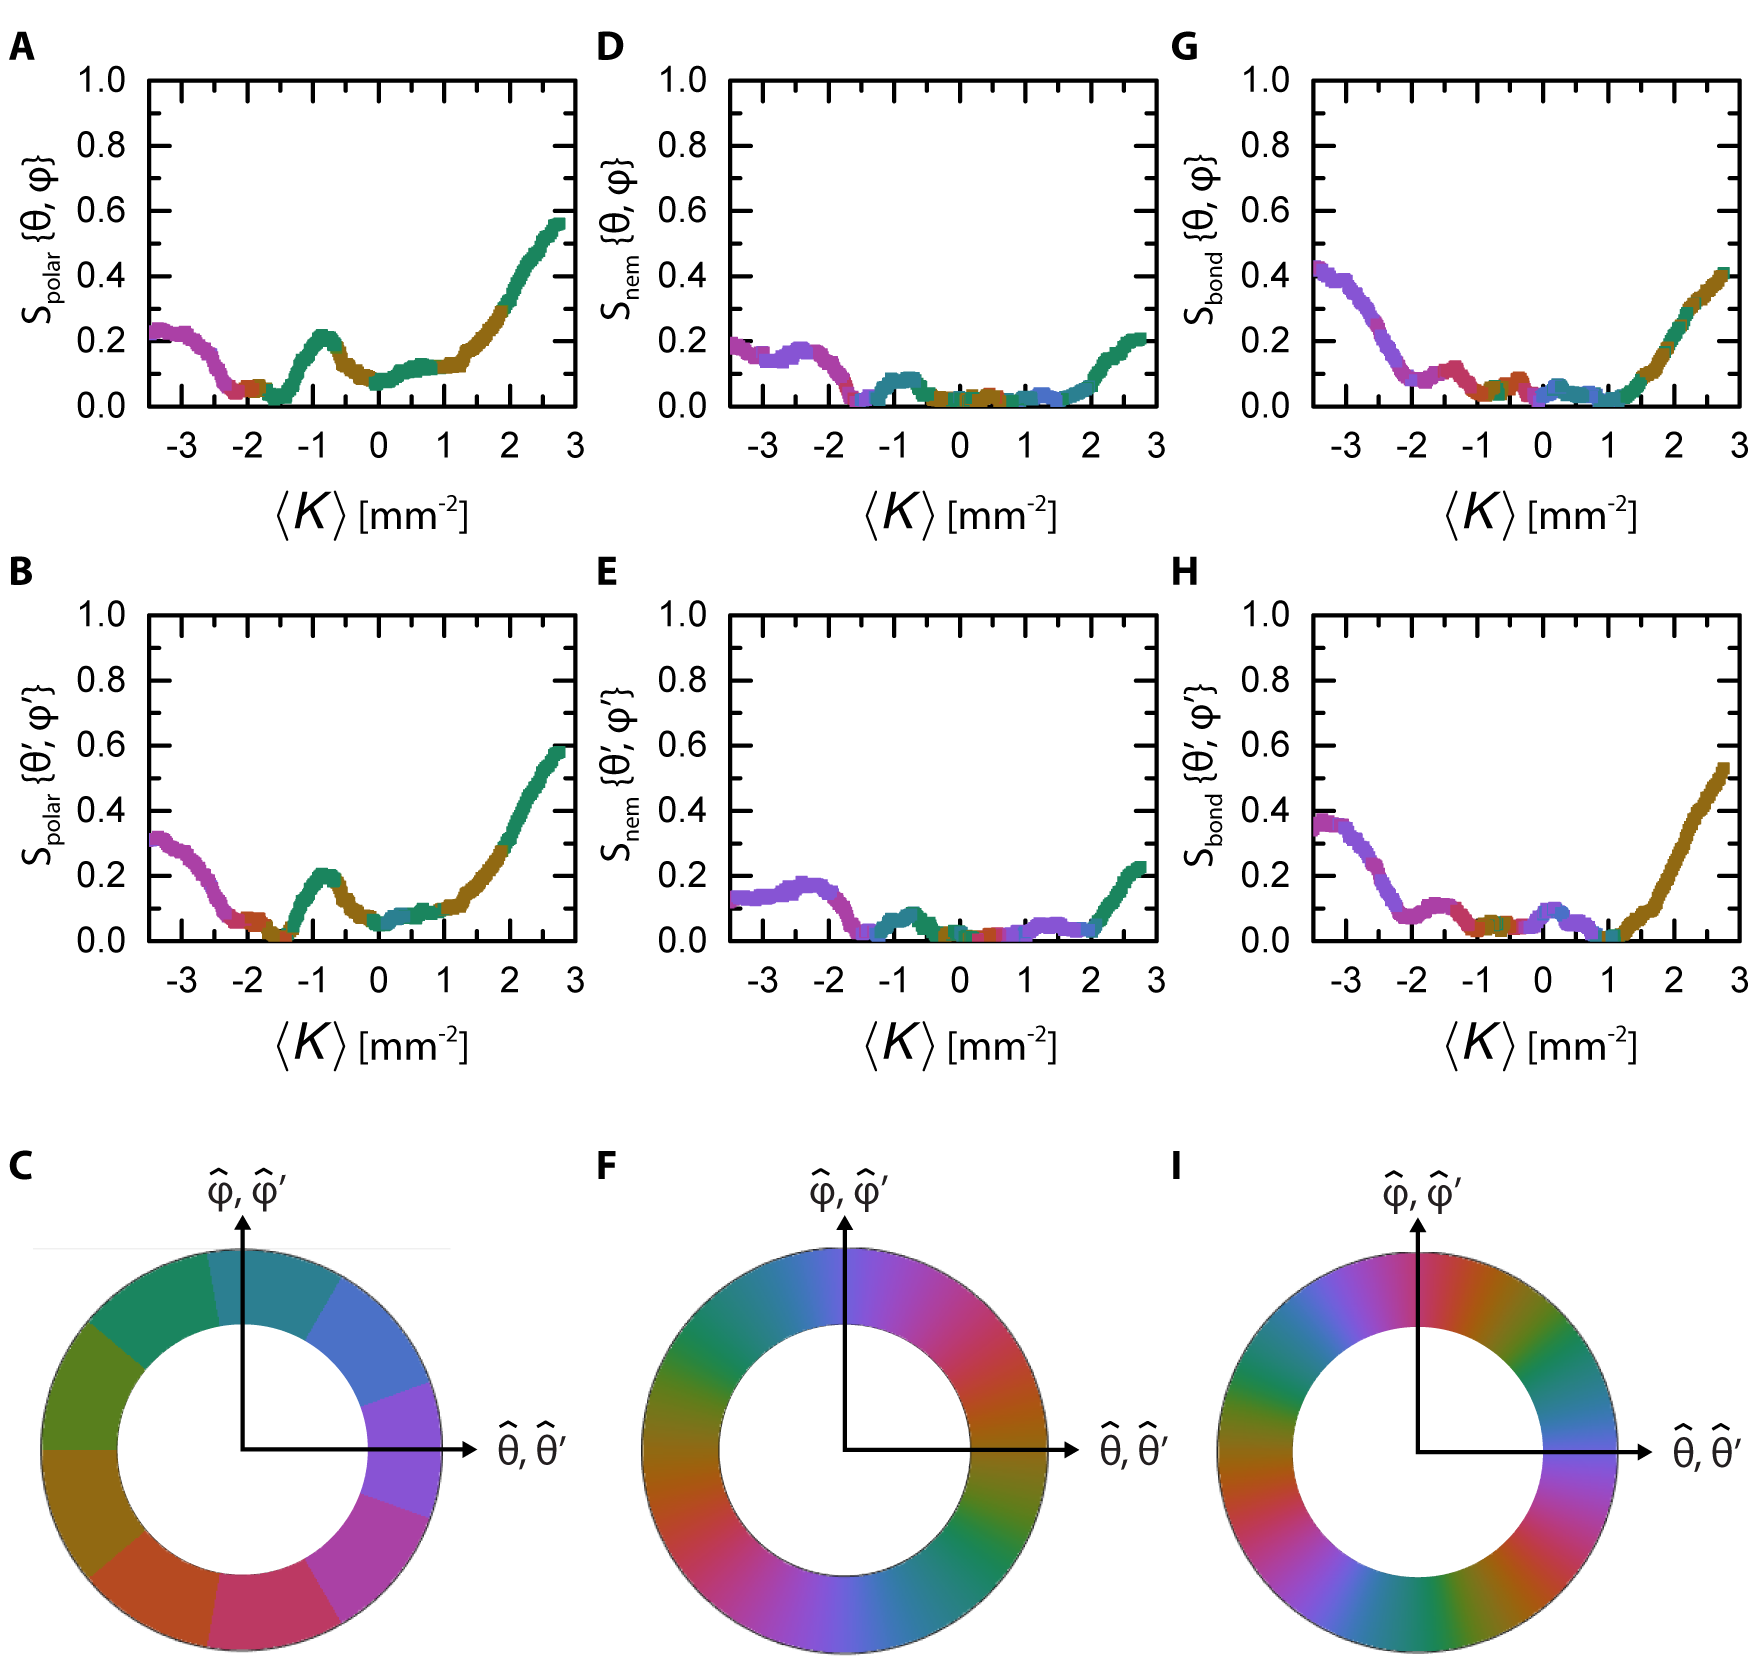
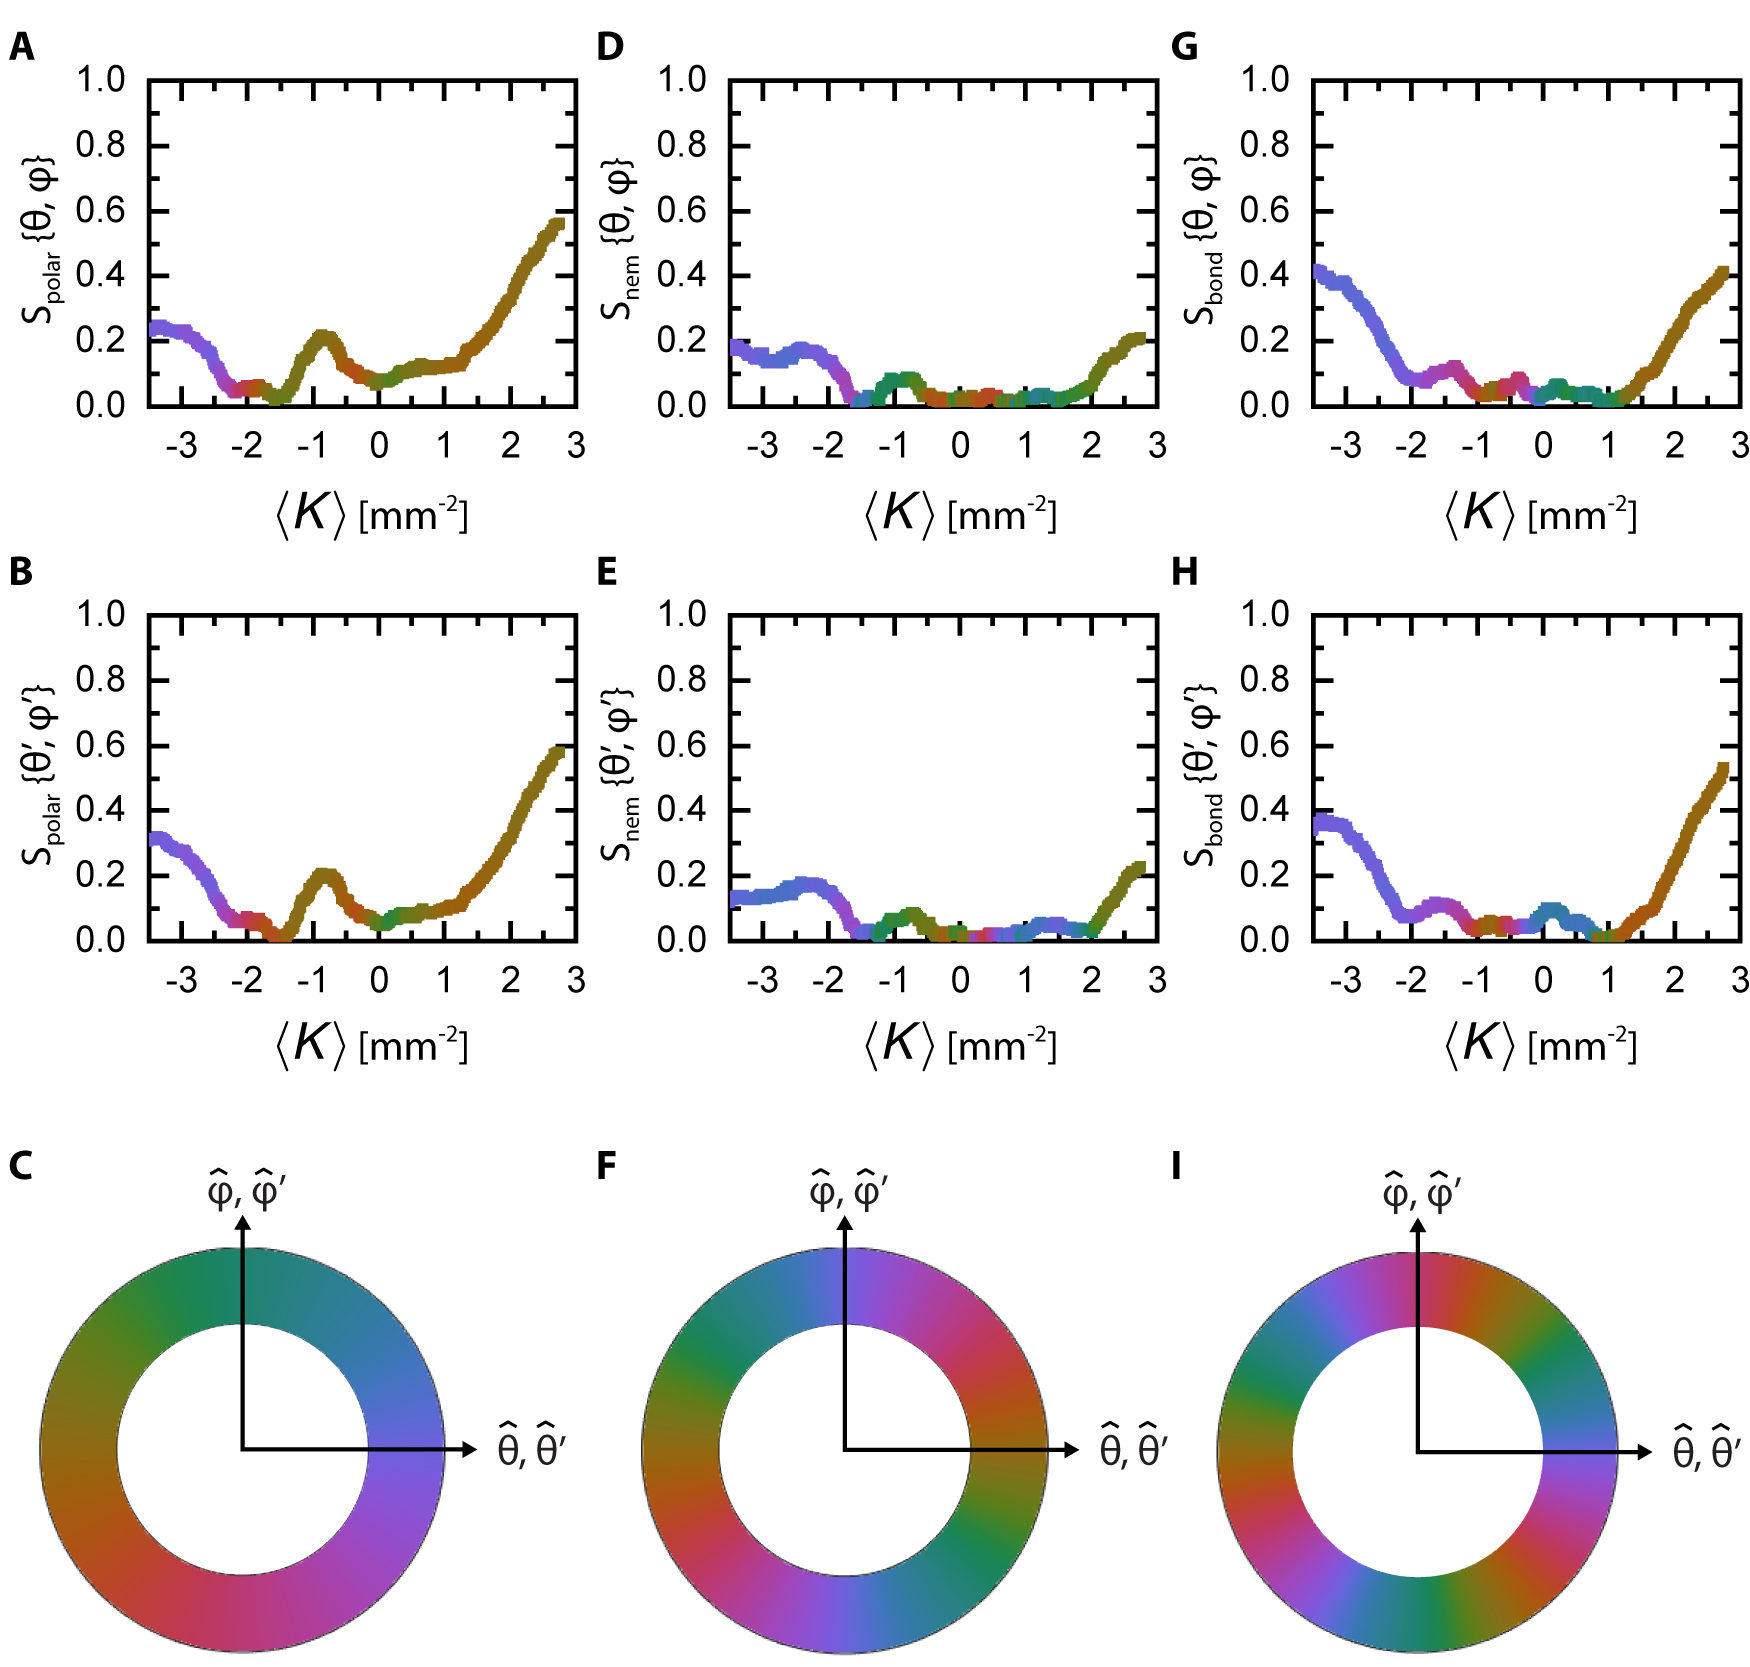
fixed colors

diff --git a/document/chapter7.tex b/document/chapter7.tex
@@ -181,11 +181,11 @@ where $S_{bond}$ is the magnitude of the order and $\Phi_o$ is an angle giving t
 \begin{figure}
   \centering
   \includegraphics{figures/C7/Ch7-Figs_Orient_MeanK.png}
-  \caption{[[COLROS WRONG]]$s = \pm 1/2$ defect ordering on a toroid with $\xi = 2.4$, $a = 268$ $\upmu$m, and an ATP concentration of 144 $\upmu$M.
+  \caption{$s = \pm 1/2$ defect ordering on a toroid with $\xi = 2.4$, $a = 268$ $\upmu$m, and an ATP concentration of 144 $\upmu$M.
   Magnitude and direction of (A--C) polar and (D--F) nematic order calculated for the $s = +1/2$ defects and (G--I) three-fold bond angle order calculated for the $s = -1/2$ defects.
   The order in (A,D,G) and (B,E,H) is calculated for the $\{\theta,\varphi \}$ and the $\{\nabla K = \theta',\varphi' \}$ coordinate systems, respectively, with (C,F,I) indicating the color scales used to denote orientation.
   }\label{f:7-Orient_MeanK}
-\end{figure}\fxnote{colors wrong in figure.}
+\end{figure}
 
 For an example toroid with with $\xi = 2.4$, $a = 268$ $\upmu$m, and an ATP concentration of 144 $\upmu$M, we plot the magnitude and orientation of the nematic and polar order for the $s = +1/2$ defects and the three-fold bond order for the $s = -1/2$ defects as a function of the mean Gaussian curvature in each bin  in Figure~\ref{f:7-Orient_MeanK}(A--C), Figure~\ref{f:7-Orient_MeanK}(D--F), and Figure~\ref{f:7-Orient_MeanK}(H--J) respectively.
 We see that for both the $\{\Theta,\varphi\}$ [Figure~\ref{f:7-Orient_MeanK}(A,D,G)] and the $\{ \nabla K = \theta',\varphi' \}$ [Figure~\ref{f:7-Orient_MeanK}(B,E,H)] coordinate systems, the $s = \pm 1/2$ defects exhibit order in the regions where the magnitude of $K$ is larger.
@@ -203,13 +203,13 @@ We also see that the magnitude of the defect order grows with increasing $|K|$ [
 \begin{figure}
   \centering
   \includegraphics{figures/C7/Ch7-Figs_Orient_PolarHex.png}
-  \caption{[[COLROS WRONG]]$s = \pm 1/2$ defect order plotted as a function of the mean defect density and of the magnitude of the gradient of the Gaussian curvature.
+  \caption{$s = \pm 1/2$ defect order plotted as a function of the mean defect density and of the magnitude of the gradient of the Gaussian curvature.
   Magnitude and direction of the (A--D) polar order for the $s = +1/2$ defects and the (F--I) three-fold bond angle order for the $s = -1/2$ defects.
   (A,B) and (F,G) are calculated in the $\{\theta,\varphi \}$ coordinate system, while (C,D) and (H,I) are calculated in the $\{ \nabla K = \theta',\varphi' \}$ coordinate system.
   The magnitude and direction of the order are plotted in (A,C,F,H) and (B,D,G,I) as a function of the mean defect density and of the mean magnitude of the gradient of the Gaussian curvature, respectively.
   The polar and three-fold bond angle color scales are displayed in (E,J), respectively.
   }\label{f:7-Orient_PolarHex}
-\end{figure}\fxnote{colors wrong in figure.}
+\end{figure}
 
 
 \subsection{Future Work}
